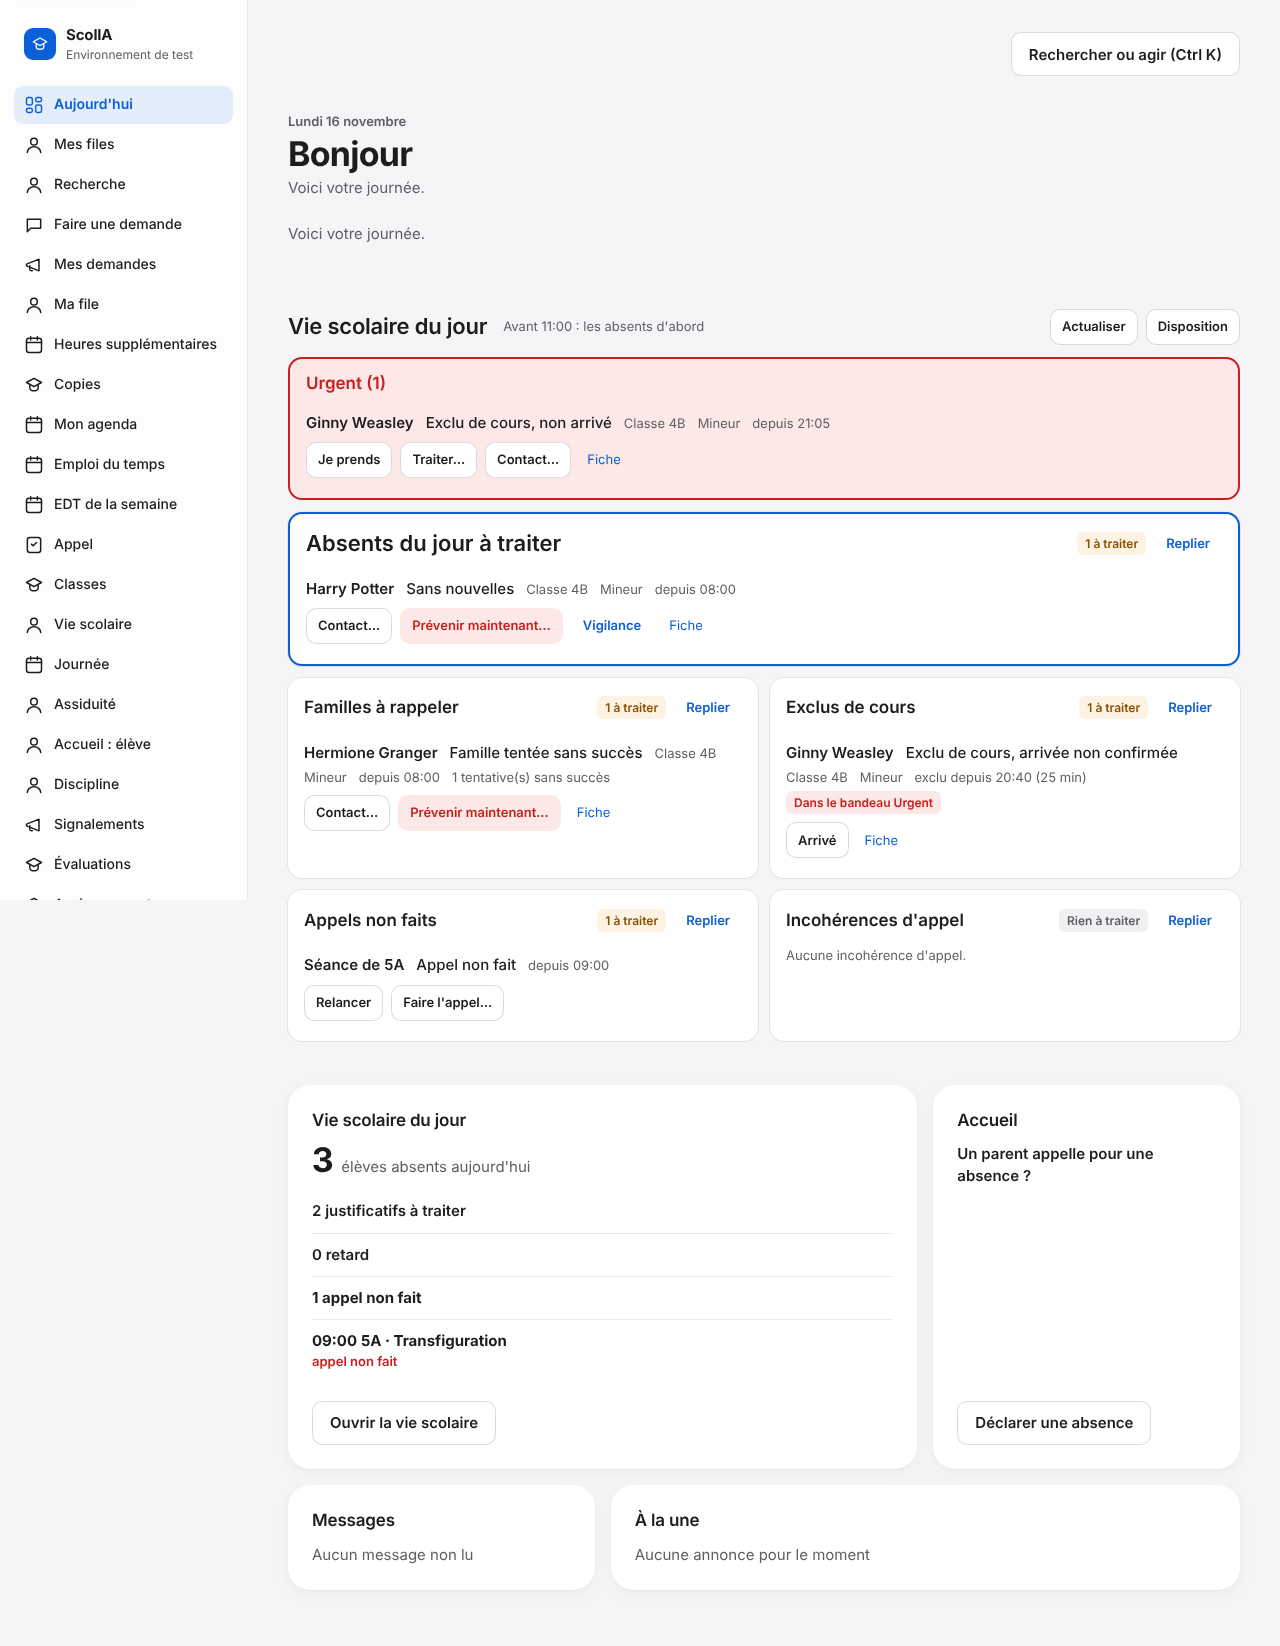
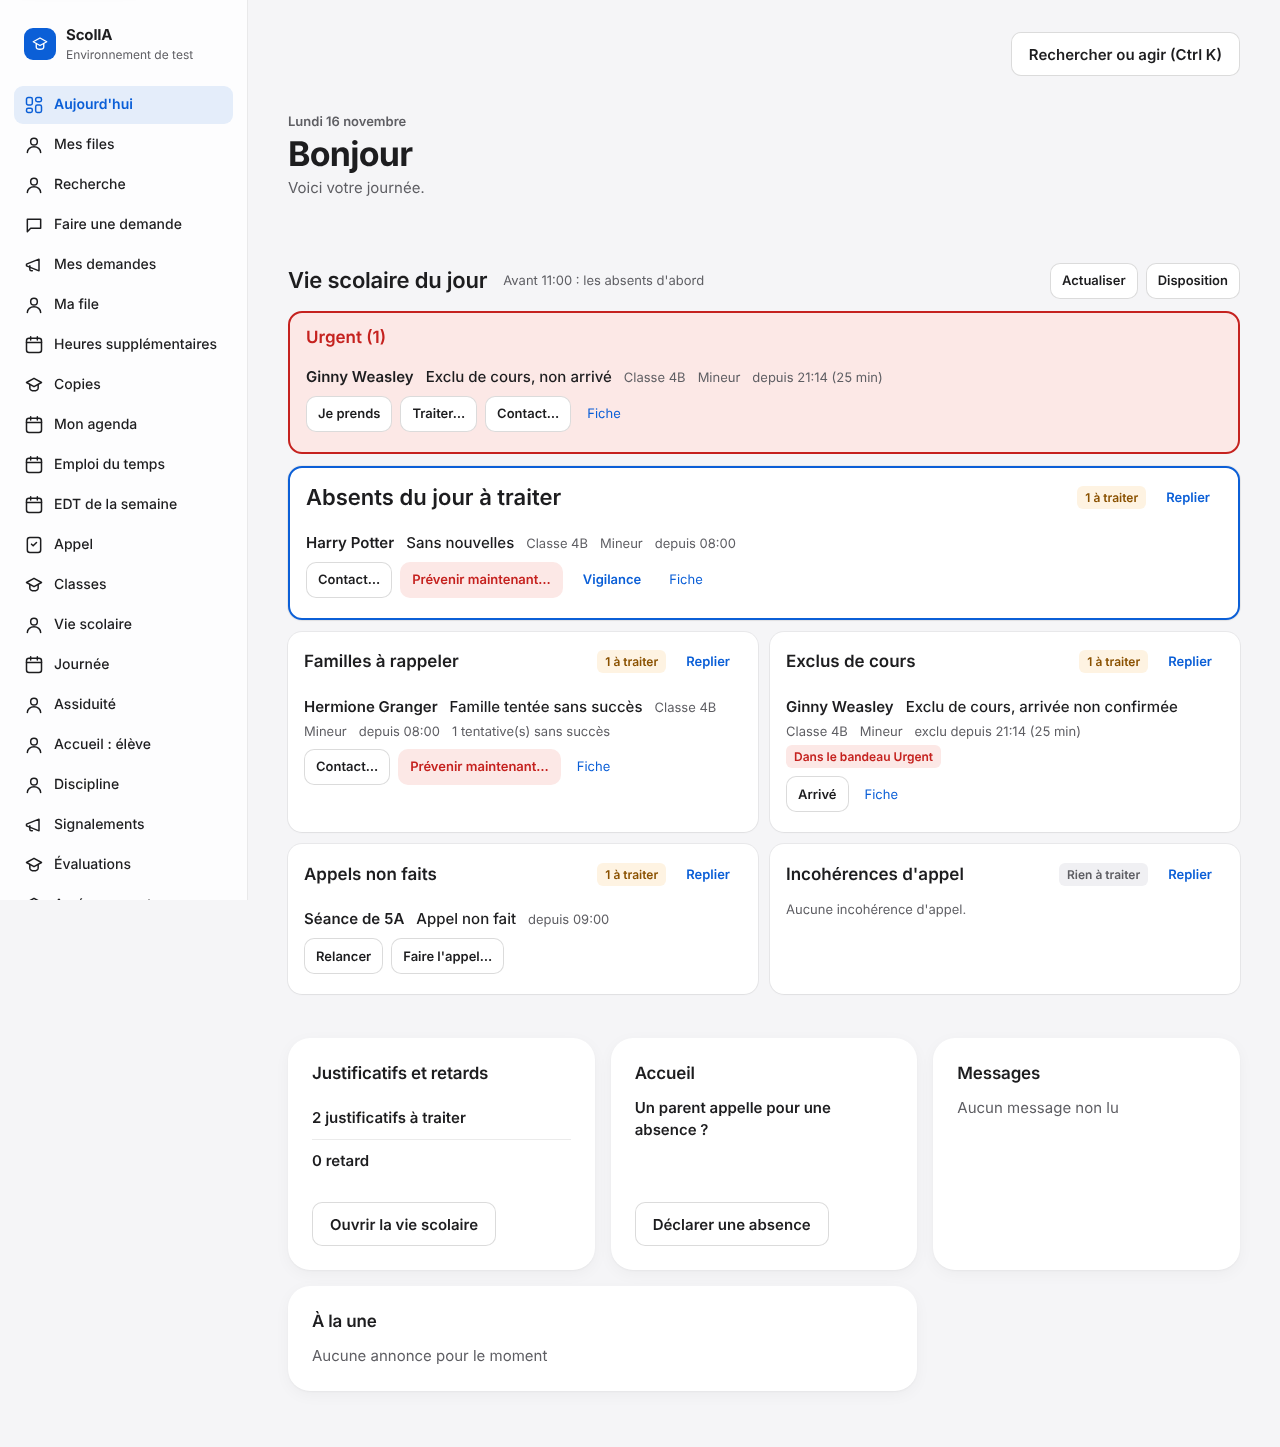
Socle 12, lot AS14b-bis : captures et rapport après corrections du pilote
Claude-Session: https://claude.ai/code/session_01KZCbFEm2fd5QoK3KWHy8vh

diff --git a/docs/socles/ASSIDUITE_AS14B_BIS.md b/docs/socles/ASSIDUITE_AS14B_BIS.md
@@ -26,10 +26,16 @@
 8. Les droits d'affichage des boutons viennent de `/roles/mes-droits` ; un rôle libre sans `absences.lire` voit une erreur d'accès plutôt qu'un tableau.
 9. Pour le parcours navigateur, les alertes « non arrivé » sont posées par SQL dans la base **locale** de test : la tâche système qui les crée tourne dans le binaire `ent-api`, pas dans `ent-web-server`. Aucune base de production n'a été touchée.
 
+## 2 bis. Corrections de la relecture du pilote (commit séparé)
+1. **Sous-titre en double** : « Voici votre journée. » n'est plus répété sous l'en-tête quand le mode est ordinaire.
+2. **Heure d'exclusion unique** : le bandeau Urgent disait l'heure de création de l'alerte, le panneau celle de l'exclusion. Dans la file du matin (`assiduite_as6.rs`, alerte « non arrivé »), la référence est désormais **l'heure de l'exclusion** (la clé de l'alerte est l'identifiant de la ligne d'appel) ; « depuis 20:40 (25 min) » partout. Test de régression `tableau_meme_heure_d_exclusion_dans_le_bandeau_et_le_panneau` ; les 12 tests AS6 restent verts.
+3. **Doublon de l'ancienne carte** : pour un profil qui a le tableau, la carte « Vie scolaire du jour » est réduite aux chiffres absents des panneaux, en une carte compacte « Justificatifs et retards » (fonction pure `reduire_tuile_vie_scolaire`, testée ; retirée si rien ne reste). Le code serveur de la tuile est inchangé.
+Choix validés par le pilote : repli local en mode automatique ; exclu du bandeau marqué dans son panneau.
+
 ## 3. Vérifications (locales, 2026-11-16)
 - **rustc / clippy 1.99.0, `-D warnings`, zéro avertissement** : `ent-web-ui`, `ent-web-api`, `ent-web-app` (SSR, `--all-targets`), `ent-web-server` et `ent-web-session` (avec et sans labo), `ent-web-app` wasm `hydrate`, `ent-types`. Backend : aucun avertissement sur les lignes ajoutées ou modifiées (clippy `--workspace --tests`, labo, filtré sur les fichiers du lot). Formatage web : commande exacte de la CI sans écart ; jamais `cargo fmt --all`. Aucun `#[ignore]`.
 - **Tests** : `ent-web-app` natif : 15 tests du modèle (regroupement, bandeau, tris, bascule 11 h avant/après/à l'heure exacte/réglée, disposition automatique matin/après-midi, épinglée, préférence inutilisable, listes fermées alignées sur `ent-db`) ; `ent-db` : 3 tests d'intégration (`tests_assiduite_tableau` : droits, exclus et urgence, arrivée, bornes, une ligne par établissement, disposition par utilisateur, refus sans écriture) + registre, `migration_tag`, RLS (63), `isolation_sql_statique` et `jour_utc_interdit` ; séparation (`ent-api`) : **52 verts** dont le nouveau domaine `assiduite_tableau` (5 cas) ; **contre le vrai backend** (`ent-web-server/tests/assiduite_tableau.rs`, 3 tests, ajouté à l'étape CI « tests contre le vrai backend ») : permissions (professeur et famille refusés partout ; la CPE lit mais ne règle pas l'heure ; hors bornes refusé), aller-retour du réglage et de la disposition, exclus du jour + JSON réel de la file rangé sans perte.
-- **Navigateur (Chromium + Playwright, vrai serveur `labo`, base locale)** : `captures_as14b_bis/parcours.mjs`, **21 contrôles sur 21**, **axe-core (wcag2a/aa, 21, best-practice) : 0 violation sur 5 vues**, 0 erreur de console, 375 px sans débordement. Parcours : 08 h 30 (absents en premier et en grand, bandeau avec Ginny) → 14 h 30 (exclus puis appels, deux grands panneaux) → « Je prends », « Arrivé » → disposition au clavier (monter, masquer, replier) → **autre poste** : l'ordre épinglé est retrouvé à une autre heure, bandeau sans bouton replier/masquer → « Revenir à automatique » → direction : bascule 10 h 15 avec 11 h, puis réglée à 10 h → « Prévenir maintenant » (bouton inactif sans raison, focus dans la boîte, retour du focus à Échap) → téléphone → bandeau vide « Rien d'urgent » → le professeur n'a pas le tableau.
+- **Navigateur (Chromium + Playwright, vrai serveur `labo`, base locale)** : `captures_as14b_bis/parcours.mjs`, **24 contrôles sur 24** (dont les trois corrections), **axe-core (wcag2a/aa, 21, best-practice) : 0 violation sur 5 vues**, 0 erreur de console, 375 px sans débordement. Parcours : 08 h 30 (absents en premier et en grand, bandeau avec Ginny) → 14 h 30 (exclus puis appels, deux grands panneaux) → « Je prends », « Arrivé » → disposition au clavier (monter, masquer, replier) → **autre poste** : l'ordre épinglé est retrouvé à une autre heure, bandeau sans bouton replier/masquer → « Revenir à automatique » → direction : bascule 10 h 15 avec 11 h, puis réglée à 10 h → « Prévenir maintenant » (bouton inactif sans raison, focus dans la boîte, retour du focus à Échap) → téléphone → bandeau vide « Rien d'urgent » → le professeur n'a pas le tableau.
 - Captures (`captures_as14b_bis/`) : `01-matin`, `02-apres-midi`, `03-apres-actions`, `04-disposition`, `05-epinglee`, `06-autre-poste`, `07-bascule-direction`, `08-dialogue-prevenir`, `09-telephone`, `10-telephone-replie`, `11-urgent-vide`.
 - Environnement : PostgreSQL 16 local, `ENT_ENV=lab` ; liaison sans informations de débogage (`CARGO_PROFILE_DEV_DEBUG=0`, `CFLAGS=-g0`).
 - CI : une seule exécution sur la tête de la branche ; numéro de run communiqué au pilote.
